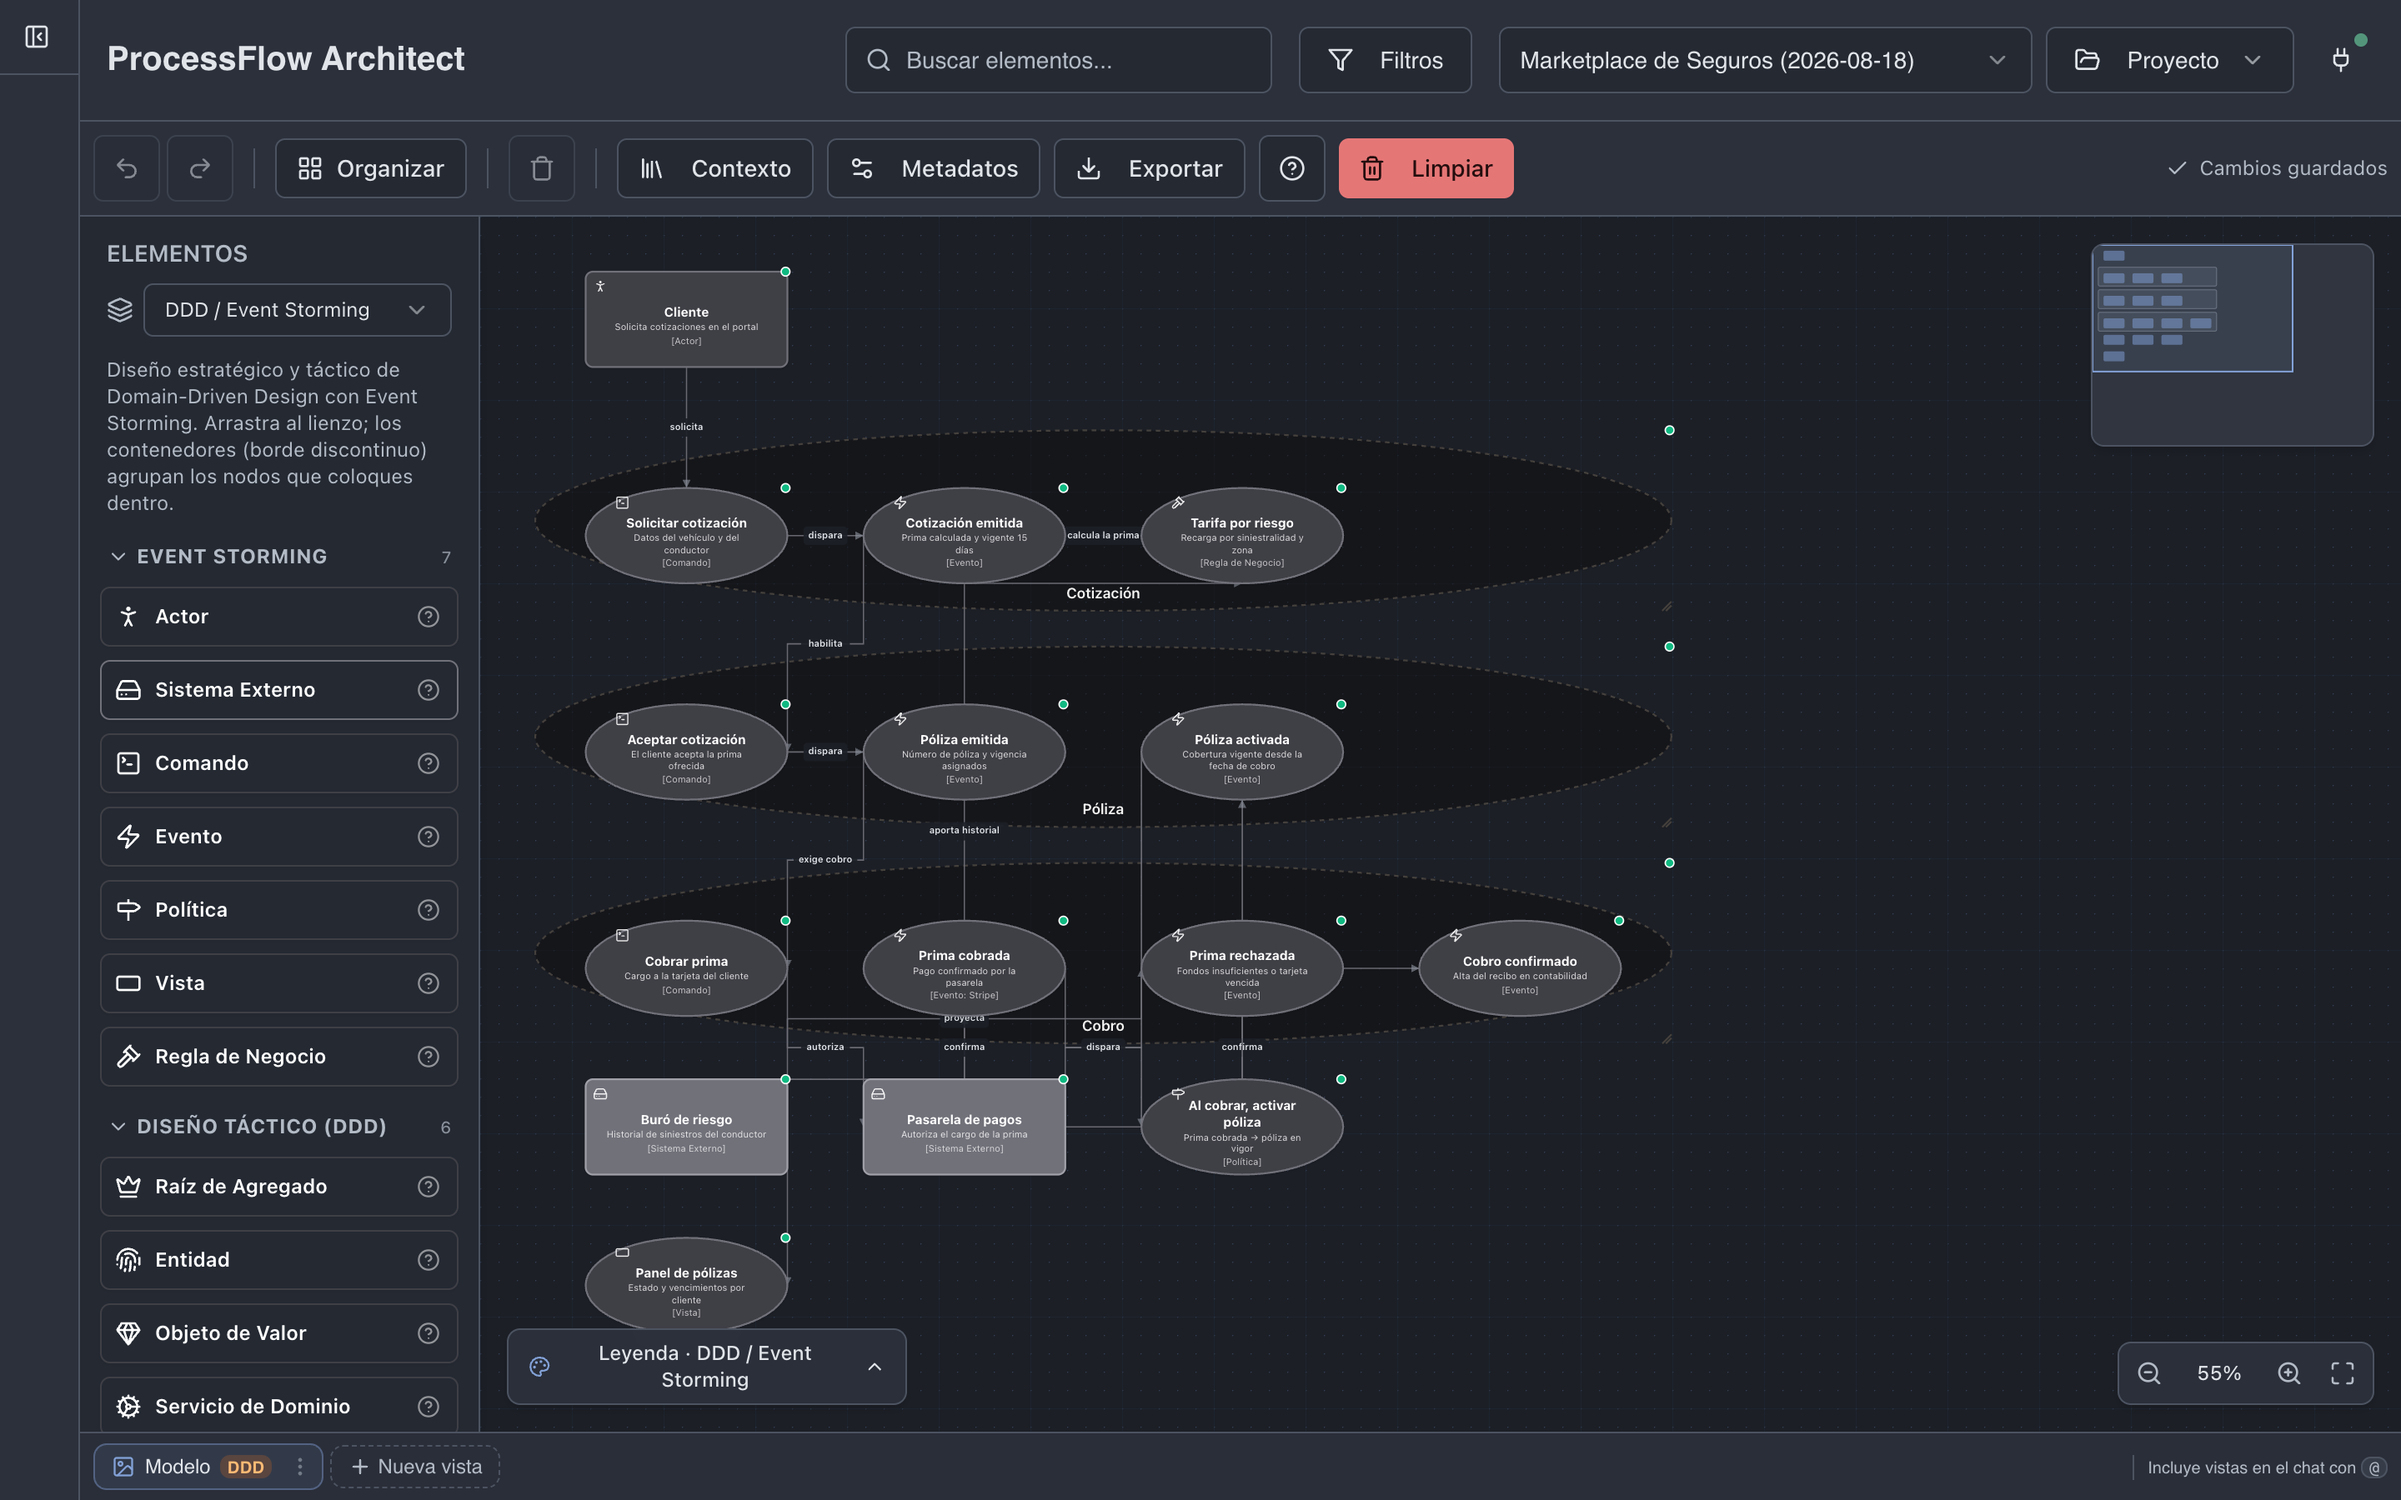
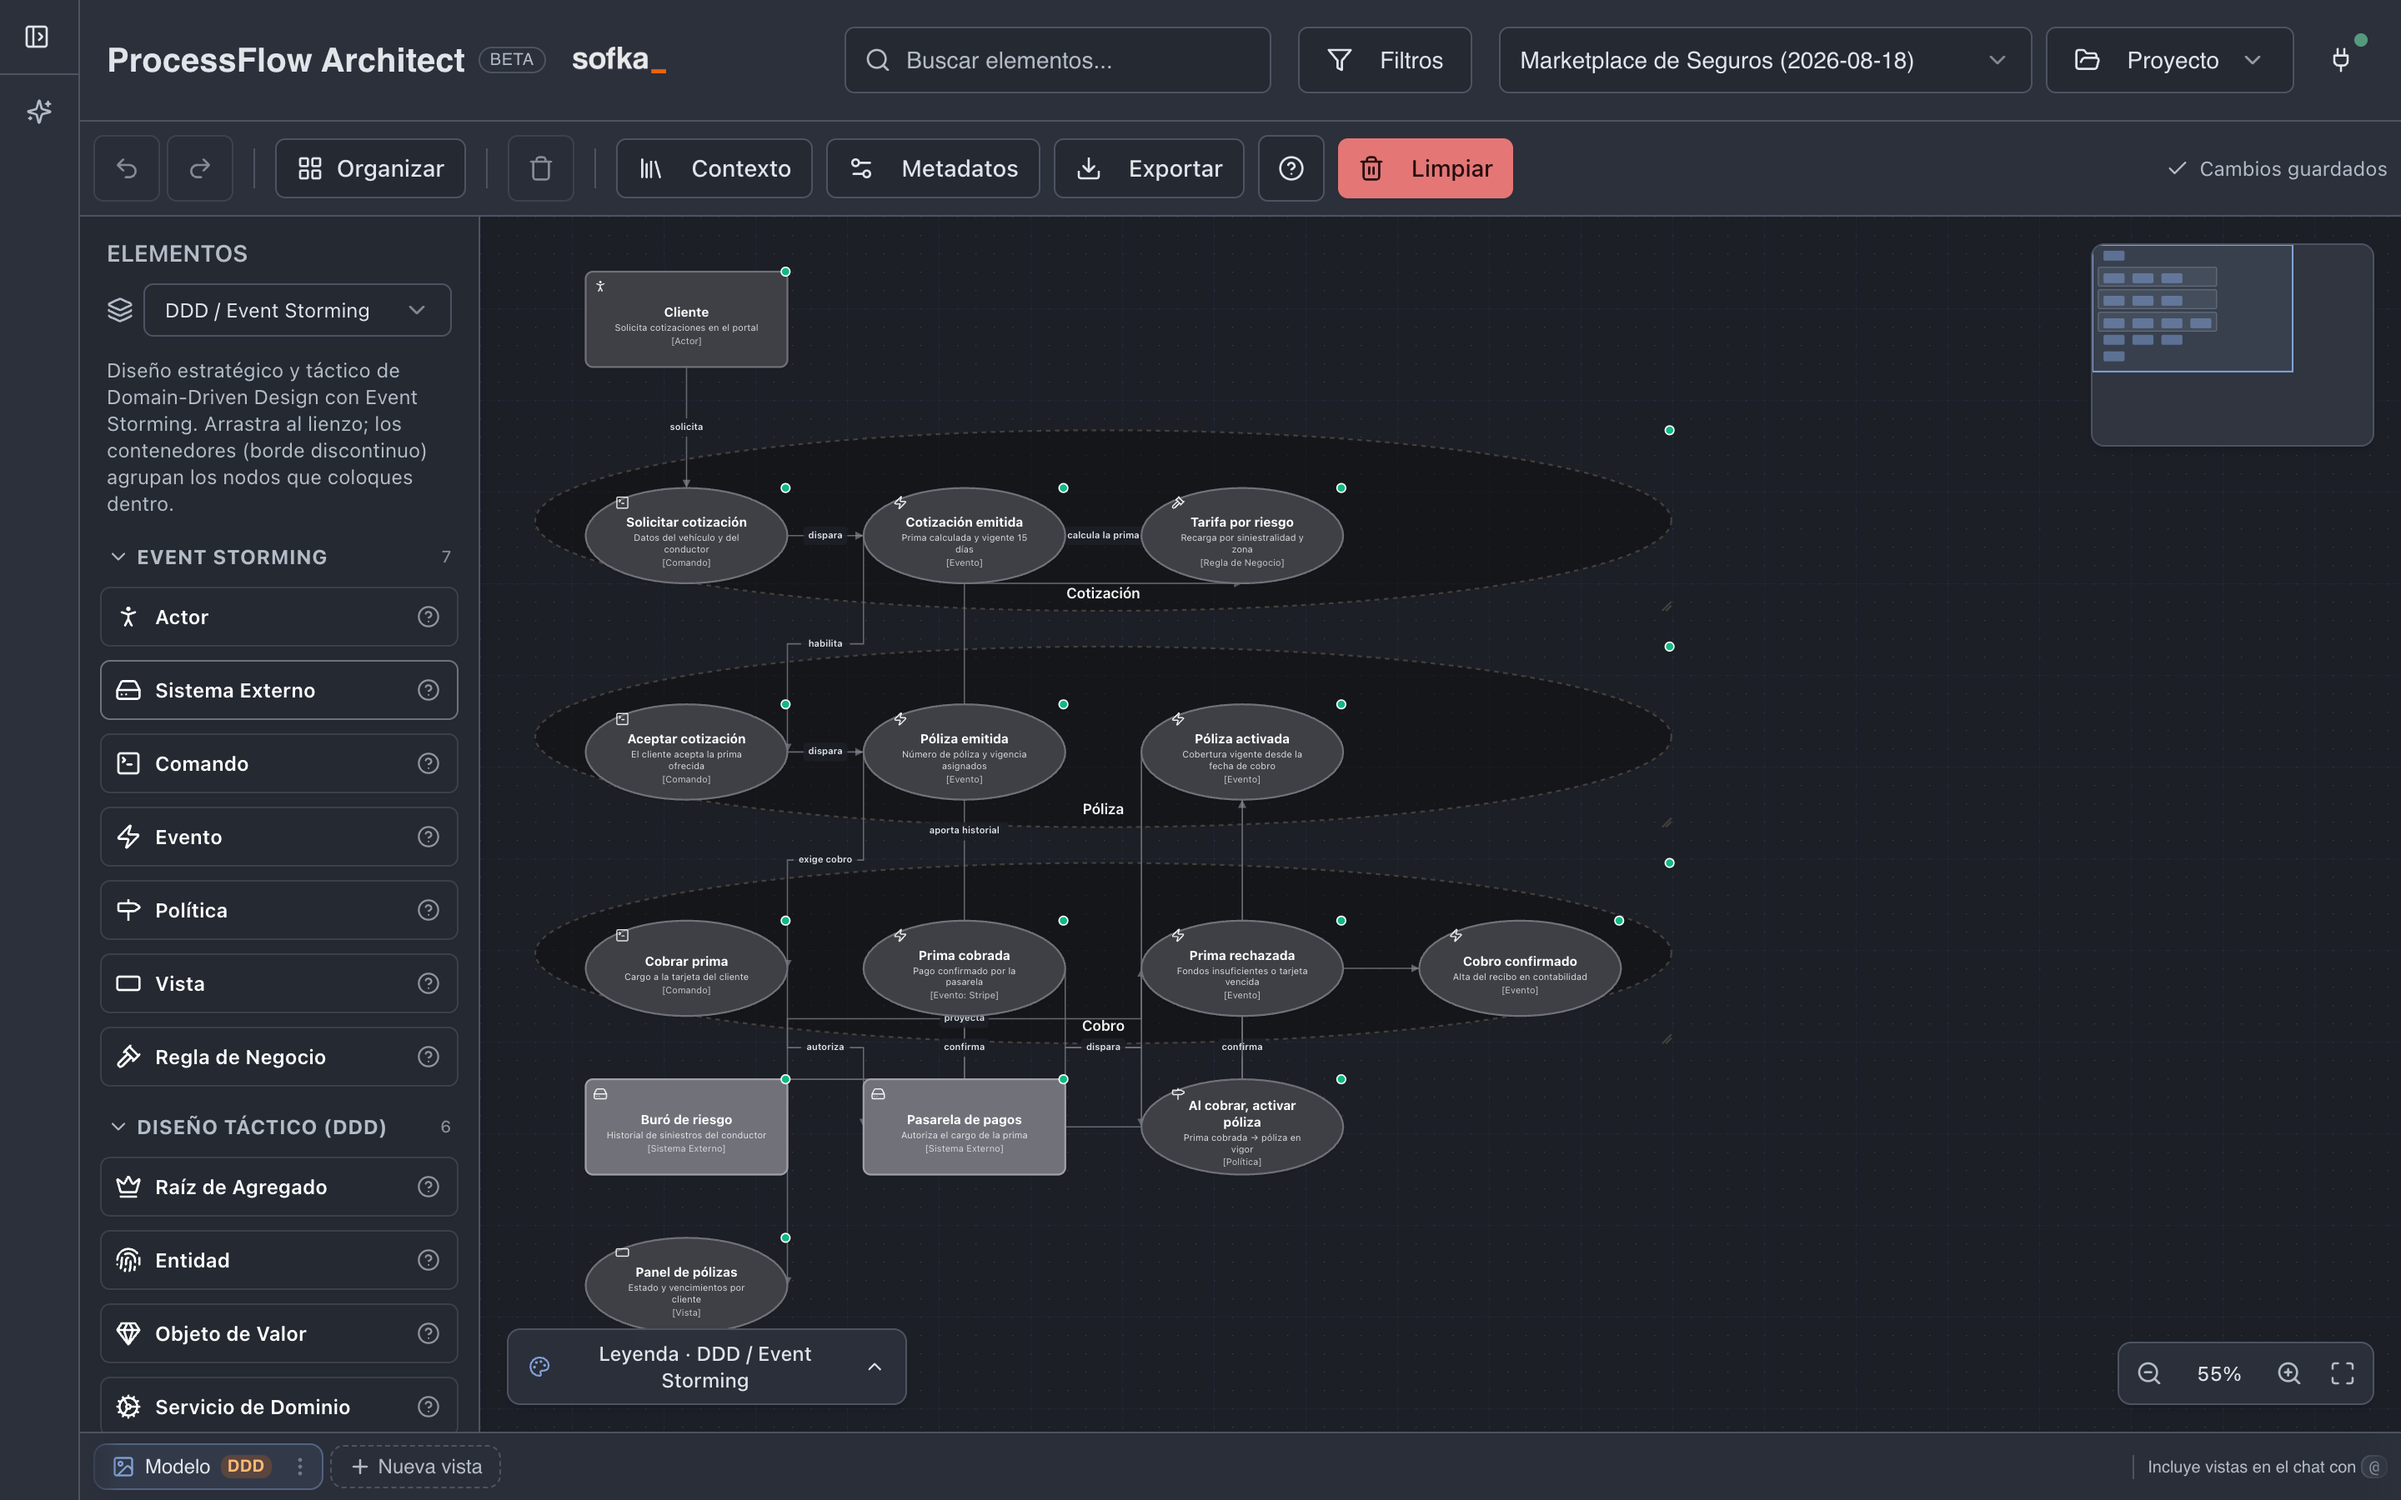
chore(release): 0.4.1
El logo de Sofka pasa a la versión NEGATIVA (wordmark blanco, acento naranja): el
archivo que llegó como `sofka.svg` era en realidad un PNG con esa extensión —
servido como `image/svg+xml` no se pinta— así que se instala en `public/sofka.png`
y se recolorea su barra al naranja de marca, que venía en negro e invisible sobre
el fondo oscuro. El logo anterior era negro y en la cabecera casi no se veía.

Documentación al día con la versión: capturas regeneradas contra la UI real
(`npm run screenshots` — ya muestran BETA, el logo y el riel del panel colapsado),
README con el estado beta, el menú «+» y los créditos; ARCHITECTURE con la regla de
una sola conversación viva del engine, `agent-run`/`artifacts/request` y el módulo
de identidad; el catálogo de reuso con las cuatro abstracciones nuevas; y dos
GOTCHAS documentadas: el `RET_CHECK !HasProcessedContext()` y el tooltip recortado
por falta de Portal.

diff --git a/src/lib/credits.ts b/src/lib/credits.ts
@@ -8,7 +8,7 @@
  * falla si ambos números difieren, así que la duplicación no puede quedar vieja.
  */
 
-export const APP_VERSION = "0.4.0";
+export const APP_VERSION = "0.4.1";
 
 /** La app aún no es estable: se anuncia como beta en la UI. */
 export const RELEASE_CHANNEL = "beta" as const;
@@ -18,7 +18,11 @@ export const versionLabel = () => `v${APP_VERSION} · ${RELEASE_CHANNEL}`;
 
 export const CREDIT_ORG = "Sofka Technologies";
 export const CREDIT_LINE = `Desarrollado por ${CREDIT_ORG}`;
-/** Ruta del logo dentro de `public/` (sirve en dev y bajo el scheme `app://`). */
+/**
+ * Ruta del logo dentro de `public/` (sirve en dev y bajo el scheme `app://`).
+ * Es la versión NEGATIVA —wordmark blanco, acento naranja— porque la app se
+ * muestra siempre en oscuro: el logo negro quedaba casi invisible en el header.
+ */
 export const CREDIT_LOGO = "/sofka.png";
 
 export interface CreditLink {

diff --git a/src/components/layout/AppHeader.tsx b/src/components/layout/AppHeader.tsx
@@ -464,7 +464,7 @@ const AppHeader: React.FC<AppHeaderProps> = ({
             target="_blank"
             rel="noreferrer"
             title={CREDIT_LINE}
-            className="hidden opacity-70 transition-opacity hover:opacity-100 md:block"
+            className="hidden opacity-90 transition-opacity hover:opacity-100 md:block"
           >
             <SofkaLogo className="h-4" />
           </a>

diff --git a/docs/harness/gotchas.md b/docs/harness/gotchas.md
@@ -163,3 +163,30 @@ Mecanismo: `repairProtocolJson` + `looksLikeProtocol` en `src/lib/ai/litert-agen
          `litert-agent-run.test.ts`: rescata y sigue · irrecuperable no se imprime · la prosa sí).
          Además el prompt pide comillas simples dentro de los textos: baja la frecuencia del fallo,
          no lo elimina — el freno es el rescate.
+
+### GOTCHA: `RET_CHECK !HasProcessedContext()` al lanzar una segunda tarea de IA
+
+Síntoma: con el chat del agente abierto, pedir un artefacto (o cualquier tarea suelta) muere con
+         `RET_CHECK failure (…/context_handler.h:182) !HasProcessedContext() The processed context
+         is already set`. Después de eso, la IA local queda muerta hasta reiniciar la app.
+Causa:   el engine de LiteRT-LM guarda el contexto procesado (el preface prefillado) en **un solo
+         slot**. Se abría una conversación por tarea sin cerrar la anterior, así que la segunda
+         chocaba contra el slot ocupado.
+Regla:   UNA conversación viva por engine. Crear una libera la anterior (`cancel()` + `delete()`),
+         las creaciones van en serie, y una tarea suelta cierra la suya al terminar. Si a alguien le
+         roban el slot en el medio, la conversación se reabre con el mismo preface y reenvía su hilo
+         (el KV-cache se pierde, la conversación no).
+Mecanismo: `activeConversation` + cola en `src/lib/ai/litert-engine.ts`, con `litert-engine.test.ts`
+         cubriendo los cinco casos (libera la anterior · la tarea suelta cierra · reapertura con
+         historial · retry recreando el engine si el RET_CHECK igual salta · error ajeno se propaga).
+         «Limpiar» del chat llama `releaseLitertContext()`.
+
+### GOTCHA: el tooltip queda por debajo del panel (Radix sin Portal)
+
+Síntoma: en el riel del sidebar colapsado el globo del tooltip no se lee: aparece recortado o
+         tapado por la barra.
+Causa:   `TooltipContent` se renderizaba DENTRO del trigger, y `SidebarContent` oculta el desborde
+         en modo icono (`group-data-[collapsible=icon]:overflow-hidden`). No era z-index: era clipping.
+Regla:   todo contenido flotante de Radix va en su `Portal` (al `body`), no dentro del trigger.
+Mecanismo: `TooltipPrimitive.Portal` en `src/components/ui/tooltip.tsx` (+ `z-[60]`). Vale para
+         cualquier tooltip dentro de un contenedor con desborde oculto.

diff --git a/docs/ARCHITECTURE.md b/docs/ARCHITECTURE.md
@@ -78,7 +78,15 @@ componente / hook (useAi)
   por compatibilidad histórica, pero **ambos corren localmente**: `remote` es la
   orquestación Genkit estructurada en el proceso main, no la nube.
 - **`litert-engine.ts` / `litert-agent.ts`** — motor de inferencia (one-shot) y agente
-  ReAct sobre el modelo local.
+  ReAct sobre el modelo local. El engine mantiene **una sola conversación viva**: el
+  contexto procesado del runtime es un slot único, así que abrir una conversación cierra
+  la anterior y las creaciones van en serie (ver `gotchas.md`).
+- **`agent-run.ts`** — estado puro de una corrida del agente: lecturas, notas, plan,
+  preguntas al humano, cobertura y citas. Incluye `fallbackPlan`, el plan de rescate con
+  lo ya leído para cuando el modelo no logra redactar uno válido.
+- **`../artifacts/request.ts`** — pedido EXPLÍCITO de artefacto (menú «+» del chat):
+  resuelve familia, etiqueta y herramienta desde el registro y arma la orden que ve el
+  modelo. Es lo que evita depender del gate de intención sobre la frase del usuario.
 - **`graph-toon.ts`** — comprime el grafo antes de inyectarlo como contexto: poda la
   geometría/colores del lienzo y codifica en TOON (tablas CSV en vez de JSON repetido).
   Ejemplo con salida real y métricas en [compresion-toon.md](compresion-toon.md).
@@ -107,6 +115,18 @@ no-array se degrada a `[]` (no lanza).
 - **`GraphContext` / `GraphDataProvider`** — modelo de dominio cargado y derivados.
 - **`AgentContext`** — estado del agente de IA y los artefactos del canvas.
 - **`ViewsContext`** — vistas DDD (por agregado + estratégicas), notación por vista.
+
+## Identidad de la app (`src/lib/credits.ts`)
+
+Versión, canal (`beta`), crédito de autoría y enlaces salen de un solo módulo puro; la UI
+(cabecera, pie del panel, «Acerca de» en `/docs`) lo consume. `APP_VERSION` se duplica a
+mano desde `package.json` porque el renderer se exporta estático, y
+`__tests__/credits.test.ts` falla si los dos números se separan.
+
+El mapa **nombre de icono → componente lucide** de los artefactos vive en
+`src/components/ai-panel/artifact-icon.tsx` (la UI resuelve lo que el registro nombra como
+string, que es puro). Agregar un `kind` con un icono no mapeado falla en
+`__tests__/artifact-icon.test.tsx`.
 
 ## Pruebas
 

diff --git a/README.md b/README.md
@@ -31,10 +31,13 @@ Event Storming · DDD · BPMN · C4 · UML · agente ReAct local · exporta a Me
 
 ---
 
+> **Versión beta.** El modelo, las vistas y el agente local siguen en evolución: el formato de
+> los proyectos puede cambiar entre versiones. La app lo dice en su cabecera y en «Acerca de».
+
 ## Qué hace
 
 - **Event Storming Big Picture** — lienzo con eventos, comandos, agregados, políticas, read models y sistemas externos.
-- **Agente de IA local (ReAct)** — chatéale a tu dominio; genera artefactos versionados y editables en el lienzo: drivers, riesgos, propuesta técnica, roadmap, ADRs y diagramas.
+- **Agente de IA local (ReAct)** — chatéale a tu dominio; genera artefactos versionados y editables en el lienzo: drivers, riesgos, propuesta técnica, roadmap, ADRs y diagramas. El menú **«+»** del chat elige el artefacto sin depender de cómo esté escrita la frase, y con el panel colapsado la barra lateral los lista con el icono de su tipo.
 - **Cuatro notaciones** — DDD / BPMN / C4 / UML por vista; la IA respeta la notación de cada vista.
 - **Vistas DDD** — vistas por agregado (deterministas) + Big Picture estratégica, CQRS Data Flow y Read Model Graph. Hasta 50 vistas, inyectables al chat del agente.
 - **Puente MCP** — Claude Code / Codex diseñan diagramas desde tus documentos y los exportan directo al lienzo.
@@ -203,3 +206,11 @@ npm run electron-build:win   # genera instalador .exe
 ## Licencia
 
 Apache 2.0 — see [LICENSE](LICENSE).
+
+---
+
+## Créditos
+
+Desarrollado por **[Sofka Technologies](https://sofka.com.co)** ·
+[LinkedIn](https://www.linkedin.com/company/sofka-technologies) ·
+[Blog](https://sofka.com.co/blog/)

diff --git a/docs/architecture/reuse-patterns.md b/docs/architecture/reuse-patterns.md
@@ -19,6 +19,10 @@ marcadas con 🔒; el resto es criterio.
 | Prompt de plantilla para la IA | `src/lib/template-prompt.ts` | concatenar strings de prompt en el llamador |
 | Tipos del dominio (nodos, aristas, vistas) | `src/lib/types.ts`, `src/lib/views-types.ts` | redeclarar interfaces parecidas |
 | Utilidades de markdown / artefactos | `src/lib/markdown-utils.ts`, `src/lib/artifacts/` | parsear markdown a mano |
+| Icono de un artefacto | `src/components/ai-panel/artifact-icon.tsx` (`iconForArtifact`, mapa nombre→lucide) | poner `FileText`/`Workflow` fijo, o un `switch` por `kind` |
+| Ver un artefacto en modal | `src/components/ai-panel/ArtifactViewerDialog.tsx` | duplicar el `Dialog` con el markdown del artefacto |
+| Pedir un artefacto concreto al agente | `src/lib/artifacts/request.ts` + `requestedKind` de `runLitertAgent` | inyectar la orden a mano en el mensaje del usuario |
+| Versión, canal beta, crédito y enlaces | `src/lib/credits.ts` | escribir la versión o los links de Sofka en un componente |
 | Componentes de UI base | `src/components/ui/` (shadcn) | escribir un botón/diálogo desde cero |
 
 ## Cómo se agrega una fila

diff --git a/STATUS.md b/STATUS.md
@@ -7,7 +7,7 @@ lo que se supone va en "deuda conocida".
 - **Fecha del último gate completo:** 2026-08-18
 - **Rama:** `main`
 - **Veredicto:** VERDE (`npm run gate`)
-- **Versión publicada:** 0.4.0 (tag `v0.4.0` → instaladores por `release-build.yml`)
+- **Versión publicada:** 0.4.1 (tag `v0.4.1` → instaladores por `release-build.yml`)
 
 ## Señales
 
